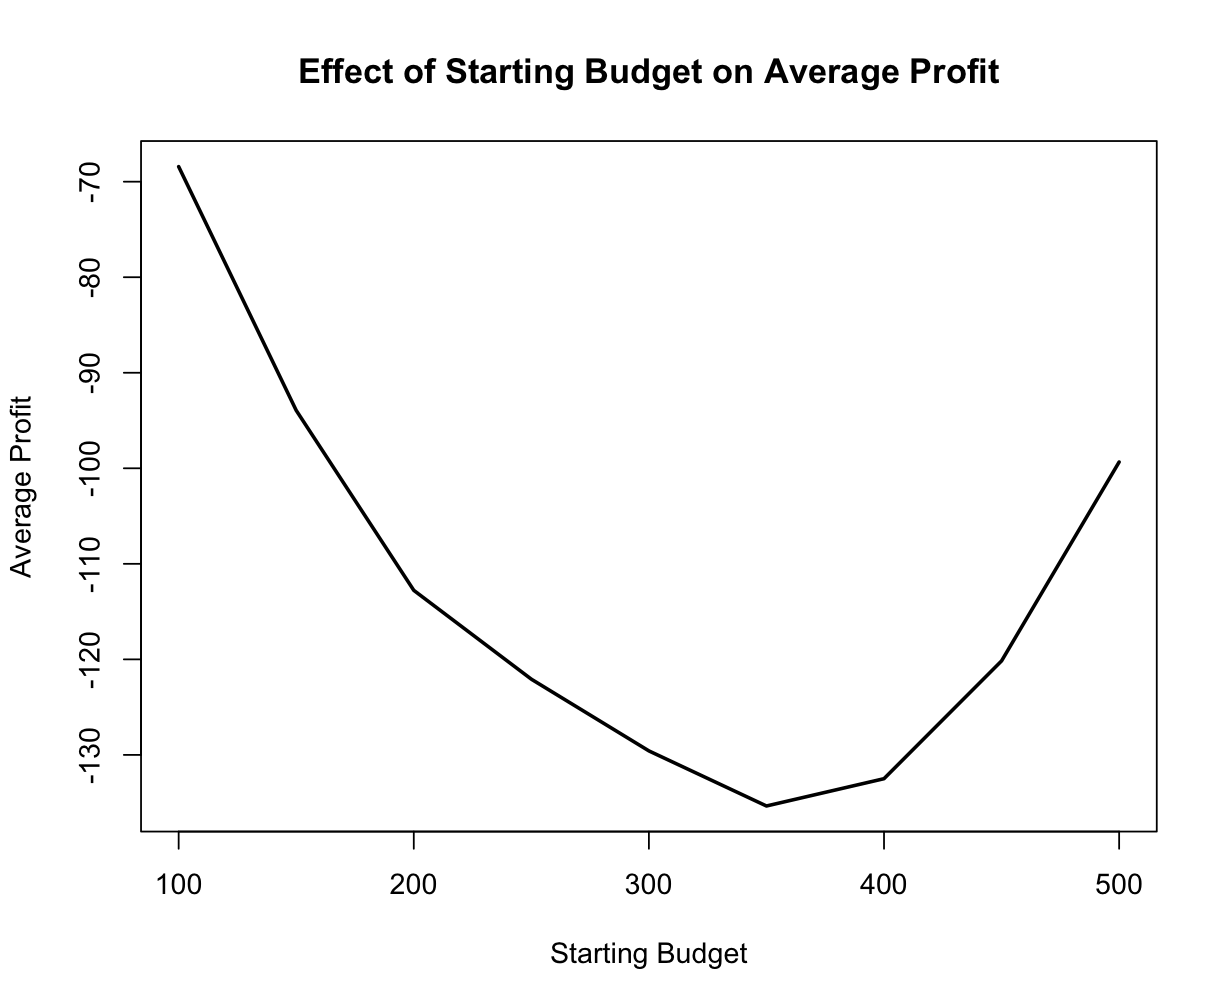
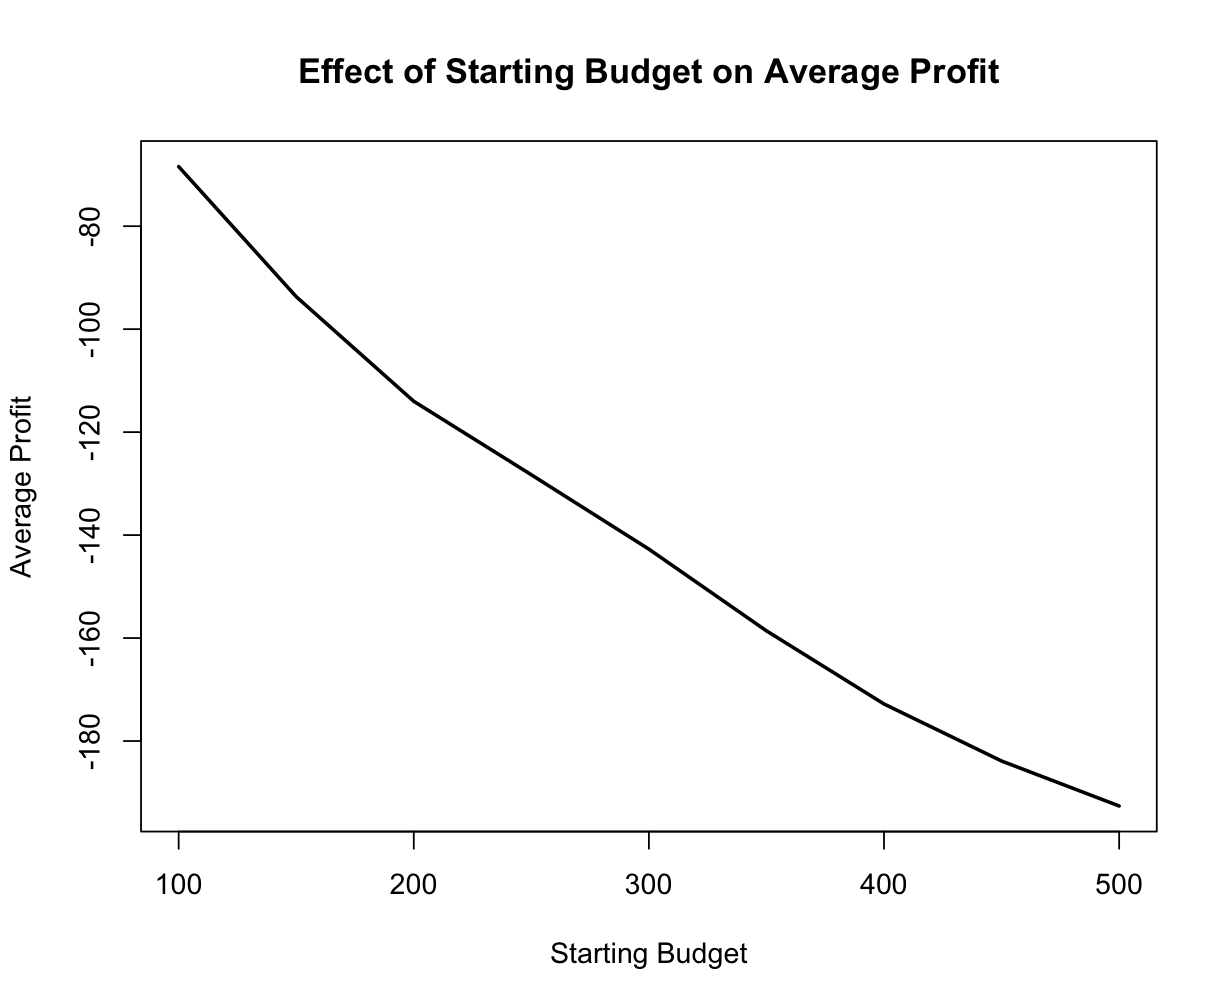
resubmit 16

diff --git a/16-roulette-simulation/writeup.md b/16-roulette-simulation/writeup.md
@@ -95,7 +95,7 @@ simulate_one_series <- function(starting_budget, winning_threshold, max_games, m
 }
 
 # Set the parameters
-winning_threshold <- 600
+winning_threshold <- 1000
 max_games <- 1000
 max_wager <- 100
 num_simulations <- 1000
@@ -116,9 +116,7 @@ plot(results$starting_budget, results$average_profit, type = "l", lwd = 2, xlab 
 ``````
 ![image](starting.png)
 
-
-The parameter changing plot for starting budget reveals a noteworthy trend in the Martingale strategy's performance. With an initial budget of $100, the average profit starts with a substantial loss of around -70, indicating the strategy's vulnerability to rapid depletion of funds. As the starting budget increases to $350, the average profit initially declines sharply, but it gradually begins to recover, highlighting the strategy's potential to rebound from losses. However, what remains consistent is that the average profit consistently stays negative, emphasizing the Martingale strategy's tendency to result in long-term losses despite any temporary recoveries.
-
+As the starting budget increases, the average profit declines steadily and remains negative, emphasizing the Martingale strategy's tendency to result in long-term losses despite any temporary recoveries.
 
 ### Changing winning_threshold
 
